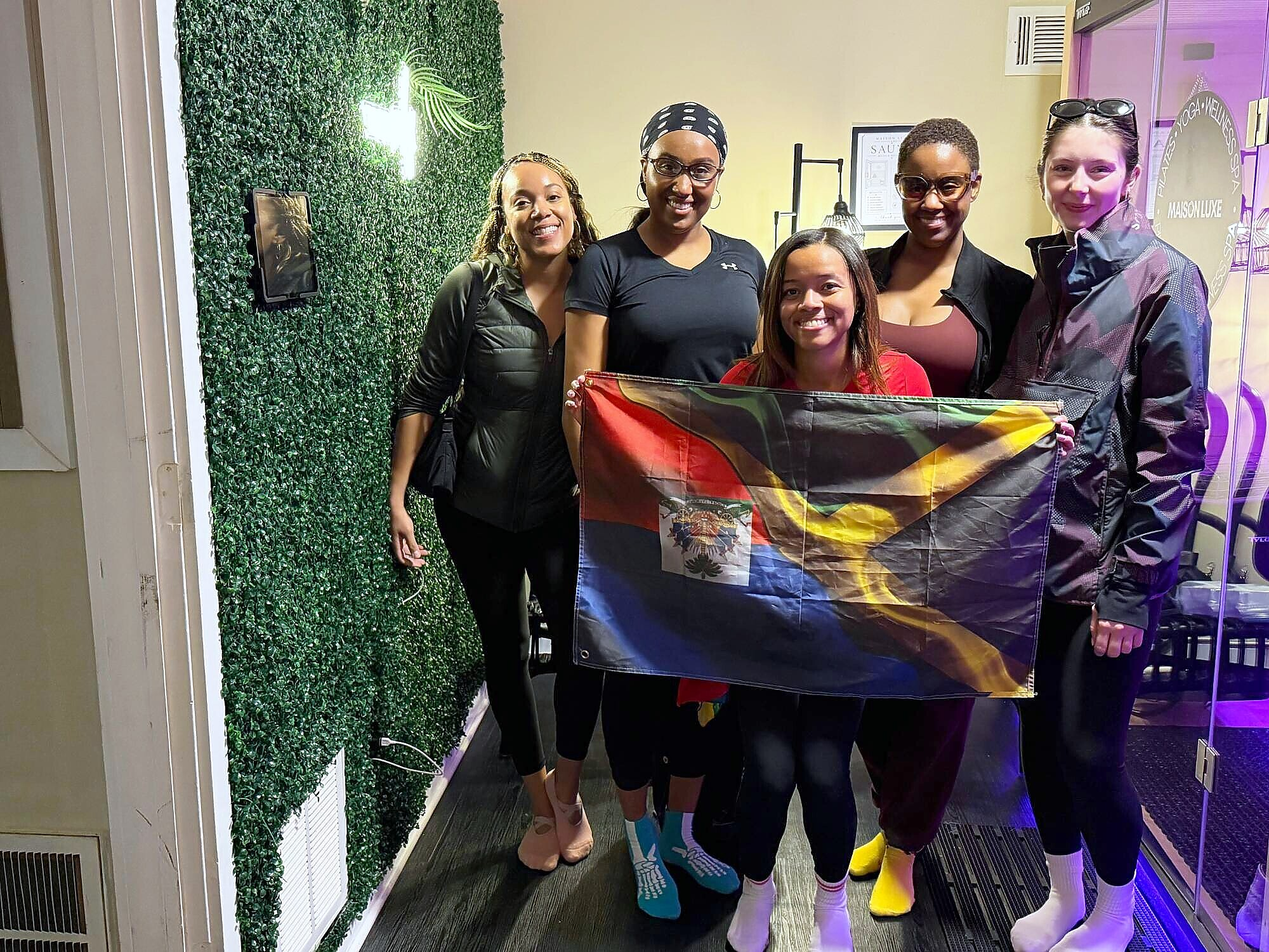
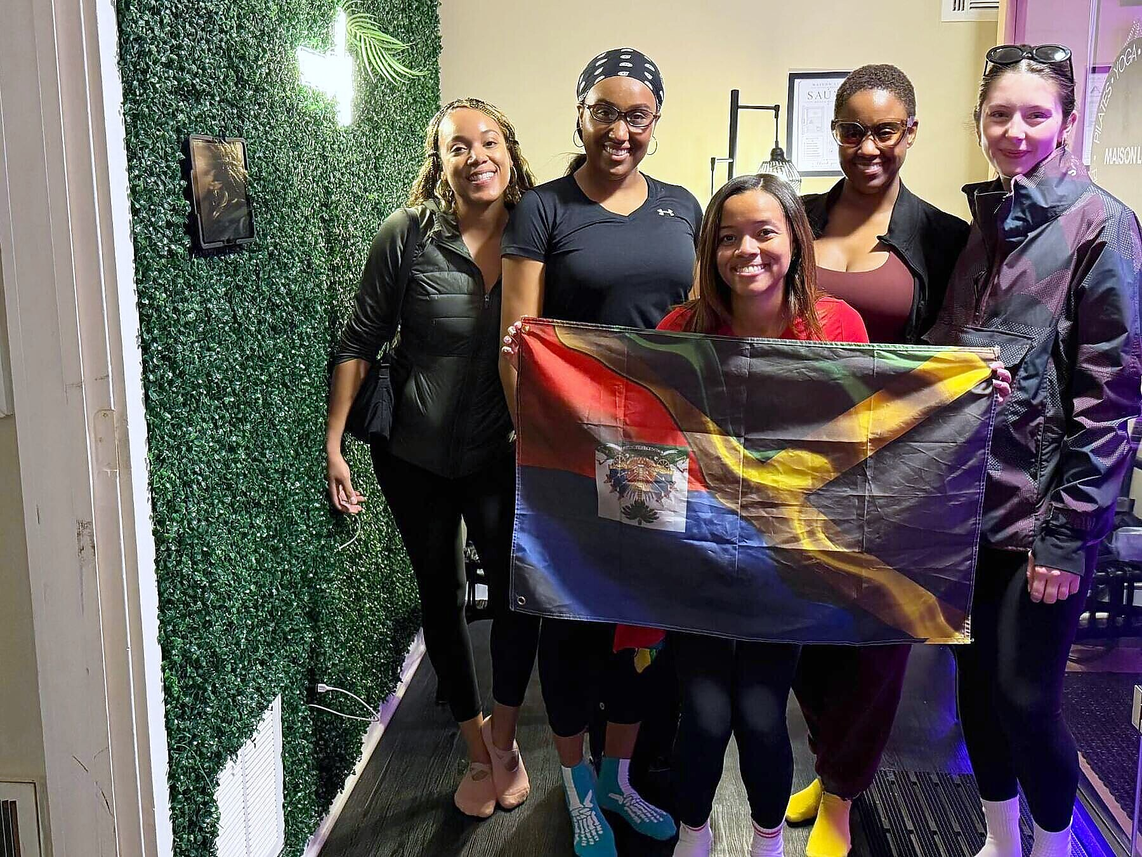
Recrop two photos, reorder the thank-you, add a location to the 2027 form (#637)
THE PHOTOS. The second set turned out to be the same four shots, two
of them cropped tighter and then scaled back up to 2000x1500 — which
is why they measured softer, not sharper: edge energy 123 and 91
against the 190 and 177 of what was already published.

The tighter framing is better, though; the group fills the frame
instead of a corridor. So rather than take either, the crop region was
located inside each sharp original by searching for the new image at a
range of scales, and that same region cut from the original at native
pixels. Same composition she chose, no upscaling. All four now measure
275-311, against the 91-197 of the files that arrived.

THE EMAIL. Reviews move above Special Thanks, so the ask that brings
the next person to a class is the first thing under the recap. The
donor line stops asking people to follow the brands and tells them
where to buy instead. The Riddim & Kompa link was already in What's
Next and stays there.

THE 2027 FORM. A location question — West Hempstead, Brooklyn, Either
— as a third row of chips, required like the equipment one, since a
date cannot be booked without knowing where. It rides in the existing
resilient insert on the `location` column that the Riddim & Kompa
interest list already writes to, so it needs no SQL. The admin tally
leads with it, the roster shows it as a pin badge, and the CSV gains a
Location column.

Verified: all three insert paths still carry the location and fall
[…]

diff --git a/RIDDIM_KOMPA_BROOKLYN_THANKYOU_TEMPLATE.html b/RIDDIM_KOMPA_BROOKLYN_THANKYOU_TEMPLATE.html
@@ -17,9 +17,9 @@
    IN ORDER:
      1. a short thank-you
      2. photos + recap coming — post, tag us, we repost
-     3. special thanks — Create Wellness + MASA Chips    ← EVENT-SPECIFIC
-     4. the kremas cheesecake + hot chocolate contact    ← EVENT-SPECIFIC
-     5. two reviews — ours, then Maison Luxe's
+     3. two reviews — ours, then Maison Luxe's
+     4. special thanks — Create Wellness + MASA Chips    ← EVENT-SPECIFIC
+     5. the kremas cheesecake + hot chocolate contact    ← EVENT-SPECIFIC
      6. what's next + the Riddim & Kompa interest list
      7. refer a friend ($5 off, honoured by hand — see below)
      8. Auric Club
@@ -145,78 +145,7 @@
           </td>
         </tr>
 
-        <!-- ── 3. Special thanks to the brands who donated ─────
-             EVENT-SPECIFIC, like the holiday note at the bottom. This
-             template is otherwise date-neutral and goes out for every
-             Maison Luxe date, so this section names one. Change the
-             brands or take the whole row out when the next date is
-             thanked, rather than leaving it crediting a donation that
-             was not made to the event the reader just attended.
-
-             Logos are deliberately not used: each would be a hotlinked
-             image from a site we do not control, and a thank-you that
-             renders two broken image boxes thanks nobody. Names and
-             links, which cannot break.                                -->
-        <tr>
-          <td style="padding:22px 36px 0;">
-            <table role="presentation" width="100%" cellpadding="0" cellspacing="0" border="0" style="border:2px solid #1a1510;">
-              <tr>
-                <td style="background-color:#1a1510;padding:8px 16px;font-family:'Oswald','Helvetica Neue',Arial,sans-serif;font-size:13px;font-weight:600;letter-spacing:4px;text-transform:uppercase;color:#e7dbbf;">&#10022; Special Thanks</td>
-              </tr>
-              <tr>
-                <td style="padding:16px 18px;">
-                  <p style="font-family:'Helvetica Neue',Arial,sans-serif;font-size:16px;line-height:1.6;color:#2a2219;margin:0 0 14px 0;">
-                    Our Thanksgiving Riddim &times; Kompa on the Reformer was made better by two brands who donated to it:
-                  </p>
-                  <table role="presentation" width="100%" cellpadding="0" cellspacing="0" border="0">
-                    <tr>
-                      <td style="padding:0 0 10px 0;font-family:'Helvetica Neue',Arial,sans-serif;font-size:16px;line-height:1.5;color:#2a2219;">
-                        <a href="https://trycreate.co" style="color:#b8302a;font-weight:bold;text-decoration:none;">Create Wellness</a>
-                        <span style="color:#5a4e38;"> &nbsp;&middot;&nbsp; trycreate.co</span>
-                      </td>
-                    </tr>
-                    <tr>
-                      <td style="padding:0;font-family:'Helvetica Neue',Arial,sans-serif;font-size:16px;line-height:1.5;color:#2a2219;">
-                        <a href="https://masachips.com" style="color:#b8302a;font-weight:bold;text-decoration:none;">MASA Chips</a>
-                        <span style="color:#5a4e38;"> &nbsp;&middot;&nbsp; masachips.com</span>
-                      </td>
-                    </tr>
-                  </table>
-                  <p style="font-family:'Helvetica Neue',Arial,sans-serif;font-size:14px;line-height:1.6;color:#5a4e38;margin:14px 0 0 0;">
-                    If you enjoyed them, give them a follow &mdash; supporting the people who support us goes a long way.
-                  </p>
-                </td>
-              </tr>
-            </table>
-          </td>
-        </tr>
-
-        <!-- ── The treats. ALSO EVENT-SPECIFIC — goes out with the
-             Special Thanks box above it, or not at all.
-
-             Lighter treatment than that box on purpose: this is an
-             offer to put someone in touch, not a credit, and two
-             bordered blocks in a row would give it the same weight as
-             the thanks. No maker's name or number is printed here —
-             she passes those on by reply, one person at a time, which
-             is what she asked for and also keeps a private contact out
-             of an email that is forwarded.                           -->
-        <tr>
-          <td style="padding:22px 36px 0;">
-            <table role="presentation" width="100%" cellpadding="0" cellspacing="0" border="0">
-              <tr>
-                <td style="border-left:4px solid #b8302a;padding:4px 0 4px 16px;">
-                  <div style="font-family:'Oswald','Helvetica Neue',Arial,sans-serif;font-size:13px;font-weight:600;letter-spacing:4px;text-transform:uppercase;color:#b8302a;padding-bottom:7px;">&#127856; The kremas cheesecake &amp; hot chocolate</div>
-                  <p style="font-family:'Helvetica Neue',Arial,sans-serif;font-size:16px;line-height:1.6;color:#2a2219;margin:0;">
-                    Enjoyed them? <a href="mailto:auricmovement@outlook.com?subject=Kremas%20cheesecake%20and%20hot%20chocolate" style="color:#b8302a;font-weight:bold;text-decoration:underline;">Reach out to me</a> and I&rsquo;ll send you the contact so you can order your own.
-                  </p>
-                </td>
-              </tr>
-            </table>
-          </td>
-        </tr>
-
-        <!-- ── 4. Reviews, on the flyer's red banner ───────────
+        <!-- ── 3. Reviews, on the flyer's red banner ───────────
              Two asks, deliberately ranked rather than shown side by
              side: ours is the one that brings the next person to an
              Auric date, so it stays the red button. The studio's sits
@@ -248,7 +177,77 @@
           </td>
         </tr>
 
-        <!-- ── 4. What's next, by location ───────────────────── -->
+        <!-- ── 4. Special thanks to the brands who donated ─────
+             EVENT-SPECIFIC, like the holiday note at the bottom. This
+             template is otherwise date-neutral and goes out for every
+             Maison Luxe date, so this section names one. Change the
+             brands or take the whole row out when the next date is
+             thanked, rather than leaving it crediting a donation that
+             was not made to the event the reader just attended.
+
+             Logos are deliberately not used: each would be a hotlinked
+             image from a site we do not control, and a thank-you that
+             renders two broken image boxes thanks nobody. Names and
+             links, which cannot break.                                -->
+        <tr>
+          <td style="padding:22px 36px 0;">
+            <table role="presentation" width="100%" cellpadding="0" cellspacing="0" border="0" style="border:2px solid #1a1510;">
+              <tr>
+                <td style="background-color:#1a1510;padding:8px 16px;font-family:'Oswald','Helvetica Neue',Arial,sans-serif;font-size:13px;font-weight:600;letter-spacing:4px;text-transform:uppercase;color:#e7dbbf;">&#10022; Special Thanks</td>
+              </tr>
+              <tr>
+                <td style="padding:16px 18px;">
+                  <p style="font-family:'Helvetica Neue',Arial,sans-serif;font-size:16px;line-height:1.6;color:#2a2219;margin:0 0 14px 0;">
+                    Our Thanksgiving Riddim &times; Kompa on the Reformer was made better by two brands who donated to it. If you liked what you tried and want to get more, the links are below:
+                  </p>
+                  <table role="presentation" width="100%" cellpadding="0" cellspacing="0" border="0">
+                    <tr>
+                      <td style="padding:0 0 10px 0;font-family:'Helvetica Neue',Arial,sans-serif;font-size:16px;line-height:1.5;color:#2a2219;">
+                        <a href="https://trycreate.co" style="color:#b8302a;font-weight:bold;text-decoration:none;">Create Wellness</a>
+                        <span style="color:#5a4e38;"> &nbsp;&middot;&nbsp; trycreate.co</span>
+                      </td>
+                    </tr>
+                    <tr>
+                      <td style="padding:0;font-family:'Helvetica Neue',Arial,sans-serif;font-size:16px;line-height:1.5;color:#2a2219;">
+                        <a href="https://masachips.com" style="color:#b8302a;font-weight:bold;text-decoration:none;">MASA Chips</a>
+                        <span style="color:#5a4e38;"> &nbsp;&middot;&nbsp; masachips.com</span>
+                      </td>
+                    </tr>
+                  </table>
+                </td>
+              </tr>
+            </table>
+          </td>
+        </tr>
+
+        <!-- ── The treats. ALSO EVENT-SPECIFIC — goes out with the
+             Special Thanks box above it, or not at all.
+
+             Lighter treatment than that box on purpose: this is an
+             offer to put someone in touch, not a credit, and two
+             bordered blocks in a row would give it the same weight as
+             the thanks. No maker's name or number is printed here —
+             she passes those on by reply, one person at a time, which
+             is what she asked for and also keeps a private contact out
+             of an email that is forwarded.                           -->
+        <tr>
+          <td style="padding:22px 36px 0;">
+            <table role="presentation" width="100%" cellpadding="0" cellspacing="0" border="0">
+              <tr>
+                <td style="border-left:4px solid #b8302a;padding:4px 0 4px 16px;">
+                  <div style="font-family:'Oswald','Helvetica Neue',Arial,sans-serif;font-size:13px;font-weight:600;letter-spacing:4px;text-transform:uppercase;color:#b8302a;padding-bottom:7px;">&#127856; The kremas cheesecake &amp; hot chocolate</div>
+                  <p style="font-family:'Helvetica Neue',Arial,sans-serif;font-size:16px;line-height:1.6;color:#2a2219;margin:0;">
+                    Enjoyed them? <a href="mailto:auricmovement@outlook.com?subject=Kremas%20cheesecake%20and%20hot%20chocolate" style="color:#b8302a;font-weight:bold;text-decoration:underline;">Reach out to me</a> and I&rsquo;ll send you the contact so you can order your own.
+                  </p>
+                </td>
+              </tr>
+            </table>
+          </td>
+        </tr>
+
+
+
+        <!-- ── 5. What's next, by location ───────────────────── -->
         <tr>
           <td align="center" style="padding:32px 36px 0;">
             <table role="presentation" cellpadding="0" cellspacing="0" border="0" style="margin:0 auto;">

diff --git a/index.html b/index.html
@@ -19004,11 +19004,12 @@ document.addEventListener('DOMContentLoaded', function() {
 
       // The tally. Counted off the rows on screen, so it can never drift
       // from the roster below it.
-      var kinds = {}, slots = {}, withPhone = 0;
+      var kinds = {}, slots = {}, locs = {}, withPhone = 0;
       rows.forEach(function(r){
         var k = nx27Kind(r); if(k) kinds[k] = (kinds[k]||0) + 1;
         var t = nx27Times(r);
         NX27_SLOTS.forEach(function(s){ if(t.indexOf(s) >= 0) slots[s] = (slots[s]||0) + 1; });
+        if(r.location) locs[r.location] = (locs[r.location]||0) + 1;
         if(r.phone) withPhone++;
       });
       function bar(label, n){
@@ -19019,7 +19020,9 @@ document.addEventListener('DOMContentLoaded', function() {
           +'<span style="flex:0 0 3.6rem;text-align:right;font-size:.76rem;color:var(--text-muted);">'+n+' \u00b7 '+pct+'%</span></div>';
       }
       var tally = '<div style="background:#fffdf9;border:1px solid var(--border);border-radius:10px;padding:.8rem .95rem;margin:.2rem 0 .8rem;">'
-        +'<div style="font-size:.7rem;letter-spacing:.14em;text-transform:uppercase;color:var(--text-muted);margin-bottom:.45rem;">What they want</div>';
+        +'<div style="font-size:.7rem;letter-spacing:.14em;text-transform:uppercase;color:var(--text-muted);margin-bottom:.45rem;">Where they want it</div>';
+      ['West Hempstead','Brooklyn','Either'].forEach(function(l){ tally += bar(l, locs[l]||0); });
+      tally += '<div style="font-size:.7rem;letter-spacing:.14em;text-transform:uppercase;color:var(--text-muted);margin:.7rem 0 .45rem;">What they want</div>';
       ['Reformer & mat','Reformer only','Mat only'].forEach(function(k){ tally += bar(k, kinds[k]||0); });
       tally += '<div style="font-size:.7rem;letter-spacing:.14em;text-transform:uppercase;color:var(--text-muted);margin:.7rem 0 .45rem;">When they\u2019re free</div>';
       NX27_SLOTS.forEach(function(s){ tally += bar(s, slots[s]||0); });
@@ -19033,6 +19036,7 @@ document.addEventListener('DOMContentLoaded', function() {
         var phone = rec.phone ? '<br><span class="au-meta">\u{1F4DE} '+escapeHTML(rec.phone)+'</span>' : '';
         var k = nx27Kind(rec);
         var kindBadge = k ? ' <span class="atype" style="background:#f3ece0;color:#7a5326;">'+escapeHTML(k)+'</span>' : '';
+        if(rec.location) kindBadge += ' <span class="atype" style="background:#eef3e8;color:#3b6b3f;">\u{1F4CD} '+escapeHTML(rec.location)+'</span>';
         var t = nx27Times(rec);
         var times = t ? '<br><span class="au-meta">\u{1F551} '+escapeHTML(t)+'</span>' : '';
         var removeBtn='<button onclick="nx27AdminRemove(\''+String(rec.id).replace(/'/g,"\\'")+'\')" style="background:#fdecea;border:1px solid #f5c6c2;color:var(--red);border-radius:6px;padding:.2rem .5rem;font-size:.72rem;cursor:pointer;font-family:\'Jost\',sans-serif;">\u{1F5D1} Remove</button>';
@@ -19061,10 +19065,10 @@ document.addEventListener('DOMContentLoaded', function() {
   window.nx27ExportCSV = function(){
     var rows = nx27Rows || [];
     if(!rows.length){ alert('No answers to export yet.'); return; }
-    var csv = 'Name,Email,Phone,Wants,Days/times,Signed up\n';
+    var csv = 'Name,Email,Phone,Location,Wants,Days/times,Signed up\n';
     rows.forEach(function(r){
       var when=''; try{ when = r.created_at ? new Date(r.created_at).toLocaleString() : ''; }catch(e){}
-      csv += [csvEscape(r.name), csvEscape(r.email), csvEscape(r.phone||''), csvEscape(nx27Kind(r)), csvEscape(nx27Times(r)), csvEscape(when)].join(',') + '\n';
+      csv += [csvEscape(r.name), csvEscape(r.email), csvEscape(r.phone||''), csvEscape(r.location||''), csvEscape(nx27Kind(r)), csvEscape(nx27Times(r)), csvEscape(when)].join(',') + '\n';
     });
     var blob = new Blob([csv], {type:'text/csv;charset=utf-8;'});
     var url = URL.createObjectURL(blob);

diff --git a/2027/index.html b/2027/index.html
@@ -81,6 +81,13 @@
         <label for="nx-phone">Phone <span class="opt">&mdash; optional, for a text when dates drop</span></label>
         <input type="tel" id="nx-phone" autocomplete="tel" placeholder="(555) 555-5555">
 
+        <label>Which location?</label>
+        <div class="chips three" role="radiogroup" aria-label="Which location?">
+          <div class="chip"><input type="radio" name="nx-loc" id="nx-loc-wh" value="West Hempstead"><span>West<br>Hempstead</span></div>
+          <div class="chip"><input type="radio" name="nx-loc" id="nx-loc-bk" value="Brooklyn"><span>Brooklyn</span></div>
+          <div class="chip"><input type="radio" name="nx-loc" id="nx-loc-either" value="Either"><span>Either</span></div>
+        </div>
+
         <label>What would you come to?</label>
         <div class="chips three" role="radiogroup" aria-label="What would you come to?">
           <div class="chip"><input type="radio" name="nx-kind" id="nx-kind-both" value="Reformer &amp; mat"><span>Reformer<br>&amp; mat</span></div>
@@ -124,6 +131,9 @@
       var phone=document.getElementById('nx-phone').value.trim();
       if(!name){ showError('Please add your name.'); return; }
       if(!/^[^@\s]+@[^@\s]+\.[^@\s]+$/.test(email)){ showError('Please enter a valid email.'); return; }
+      var locEl=document.querySelector('input[name="nx-loc"]:checked');
+      if(!locEl){ showError('Pick a location — one tap.'); return; }
+      var loc=locEl.value;
       var kindEl=document.querySelector('input[name="nx-kind"]:checked');
       if(!kindEl){ showError('Pick reformer, mat, or both — one tap.'); return; }
       var kind=kindEl.value;
@@ -141,8 +151,8 @@
       // more than a tidy row, so each failure drops a field rather than the
       // person. The middle shape folds the equipment answer into the times
       // text so nothing she needs is actually lost.
-      var recFull={ name:name, email:email, phone:(phone||null), event:TAGS.event, source:TAGS.source, equipment:kind, preferred_times:(whenText||null) };
-      var recMid ={ name:name, email:email, phone:(phone||null), event:TAGS.event, source:TAGS.source, preferred_times:(kind+(whenText?' — '+whenText:'')) };
+      var recFull={ name:name, email:email, phone:(phone||null), event:TAGS.event, source:TAGS.source, location:loc, equipment:kind, preferred_times:(whenText||null) };
+      var recMid ={ name:name, email:email, phone:(phone||null), event:TAGS.event, source:TAGS.source, location:loc, preferred_times:(kind+(whenText?' — '+whenText:'')) };
       var recBase={ name:name, email:email, phone:(phone||null), event:TAGS.event, source:TAGS.source };
       try{ var a=JSON.parse(localStorage.getItem('auric_2027_interest')||'[]'); a.push(recFull); localStorage.setItem('auric_2027_interest', JSON.stringify(a)); }catch(e){}
       function done(){ form.style.display='none'; confirmed.style.display='block'; confirmed.scrollIntoView({behavior:'smooth',block:'center'}); }
